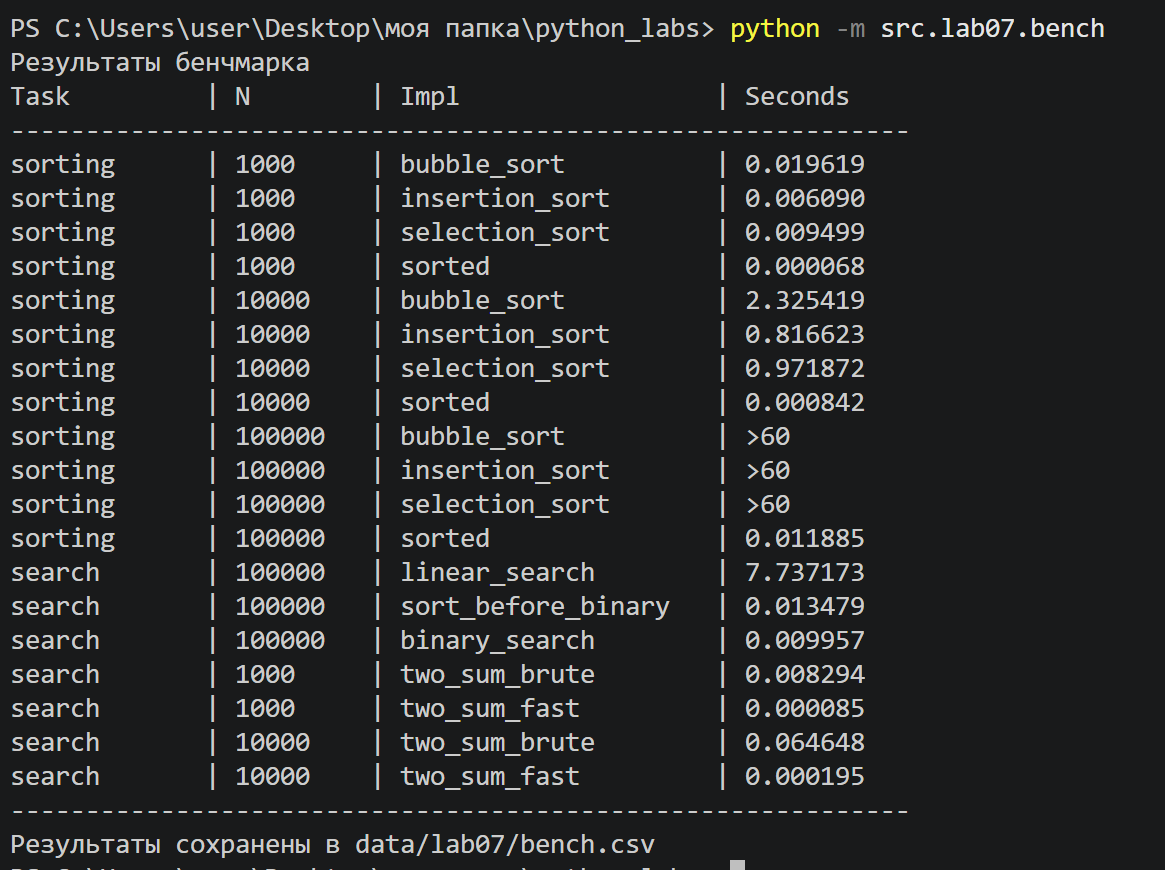
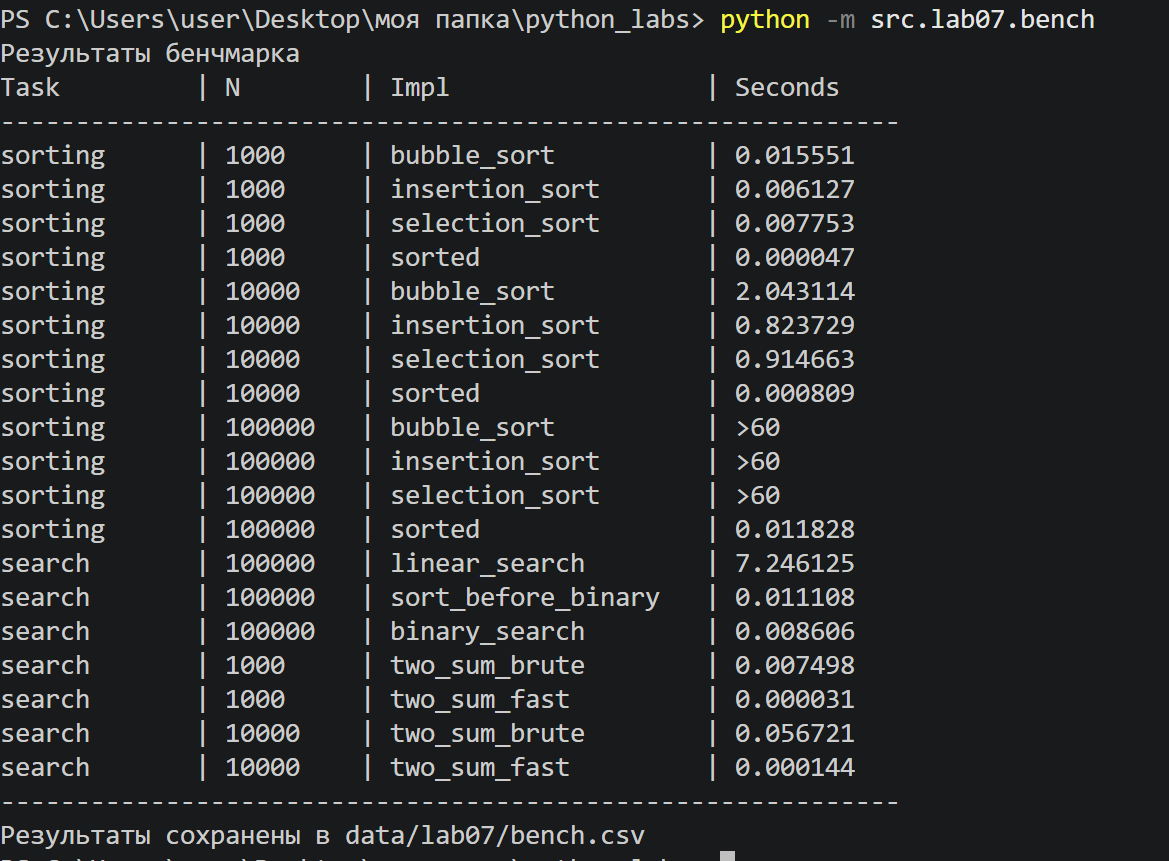
.

diff --git a/src/lab07/README.md b/src/lab07/README.md
@@ -431,12 +431,12 @@ def bench_search():
 
 ## Вывод по лабораторной работе
 
-**Сортировки и поиск.** При увеличении размера списка с 1 000 до 10 000 элементов Bubble Sort замедлился примерно в 119 раз (с 0,019619 до 2,325419 с), что соответствует ожидаемой сложности \(O(n^2)\). Время работы sorted выросло примерно в 12,4 раза (с 0,000068 до 0,000842 с), что соответствует \(O(n \log n)\). На 100 000 элементов квадратичные сортировки не запускались из-за ограничения в 60 секунд.
+**Сортировки и поиск**
+ При увеличении размера списка с 1 000 до 10 000 элементов Bubble Sort замедлился примерно в 131 раз (с 0,015551 до 2,043114 с), что соответствует ожидаемой сложности (O(n^2)). Время работы sorted выросло примерно в 17,2 раза (с 0,000047 до 0,000809 с), что соответствует (O(n \log n)). На 100 000 элементов квадратичные сортировки не запускались из-за ограничения в 60 секунд.
 
-Бинарный поиск нельзя применять к неотсортированному списку, так как он использует порядок элементов для отбрасывания половины списка. На 100 000 элементах линейный поиск занял 7,737173 с, а сортировка и бинарный поиск вместе — около 0,023436 с. Поэтому при большом количестве запросов предварительная сортировка выгоднее, а для одного поиска лучше использовать линейный поиск.
+Бинарный поиск нельзя применять к неотсортированному списку, так как он использует порядок элементов для отбрасывания половины списка. На 100 000 элементах линейный поиск занял 7,246125 с, а сортировка и бинарный поиск вместе — около 0,019714 с. Поэтому при большом количестве запросов предварительная сортировка выгоднее, а для одного поиска лучше использовать линейный поиск.
 
-**Two Sum.** При 10 000 элементах полный перебор занял 0,064648 с, а быстрое решение — 0,000195 с, что показывает преимущество оптимизированного алгоритма.
+**Two Sum** При 10 000 элементах полный перебор занял 0,056721 с, а быстрое решение — 0,000144 с, что показывает преимущество оптимизированного алгоритма.
 
-**Проверка правильности.** Скрипт check.py выполнил 794 проверки и не обнаружил ошибок. Все алгоритмы прошли тестирование, поэтому исправления не потребовались.
-
+**Проверка правильности** Скрипт check.py выполнил 794 проверки и не обнаружил ошибок. Все алгоритмы прошли тестирование, поэтому исправления не потребовались.
 
